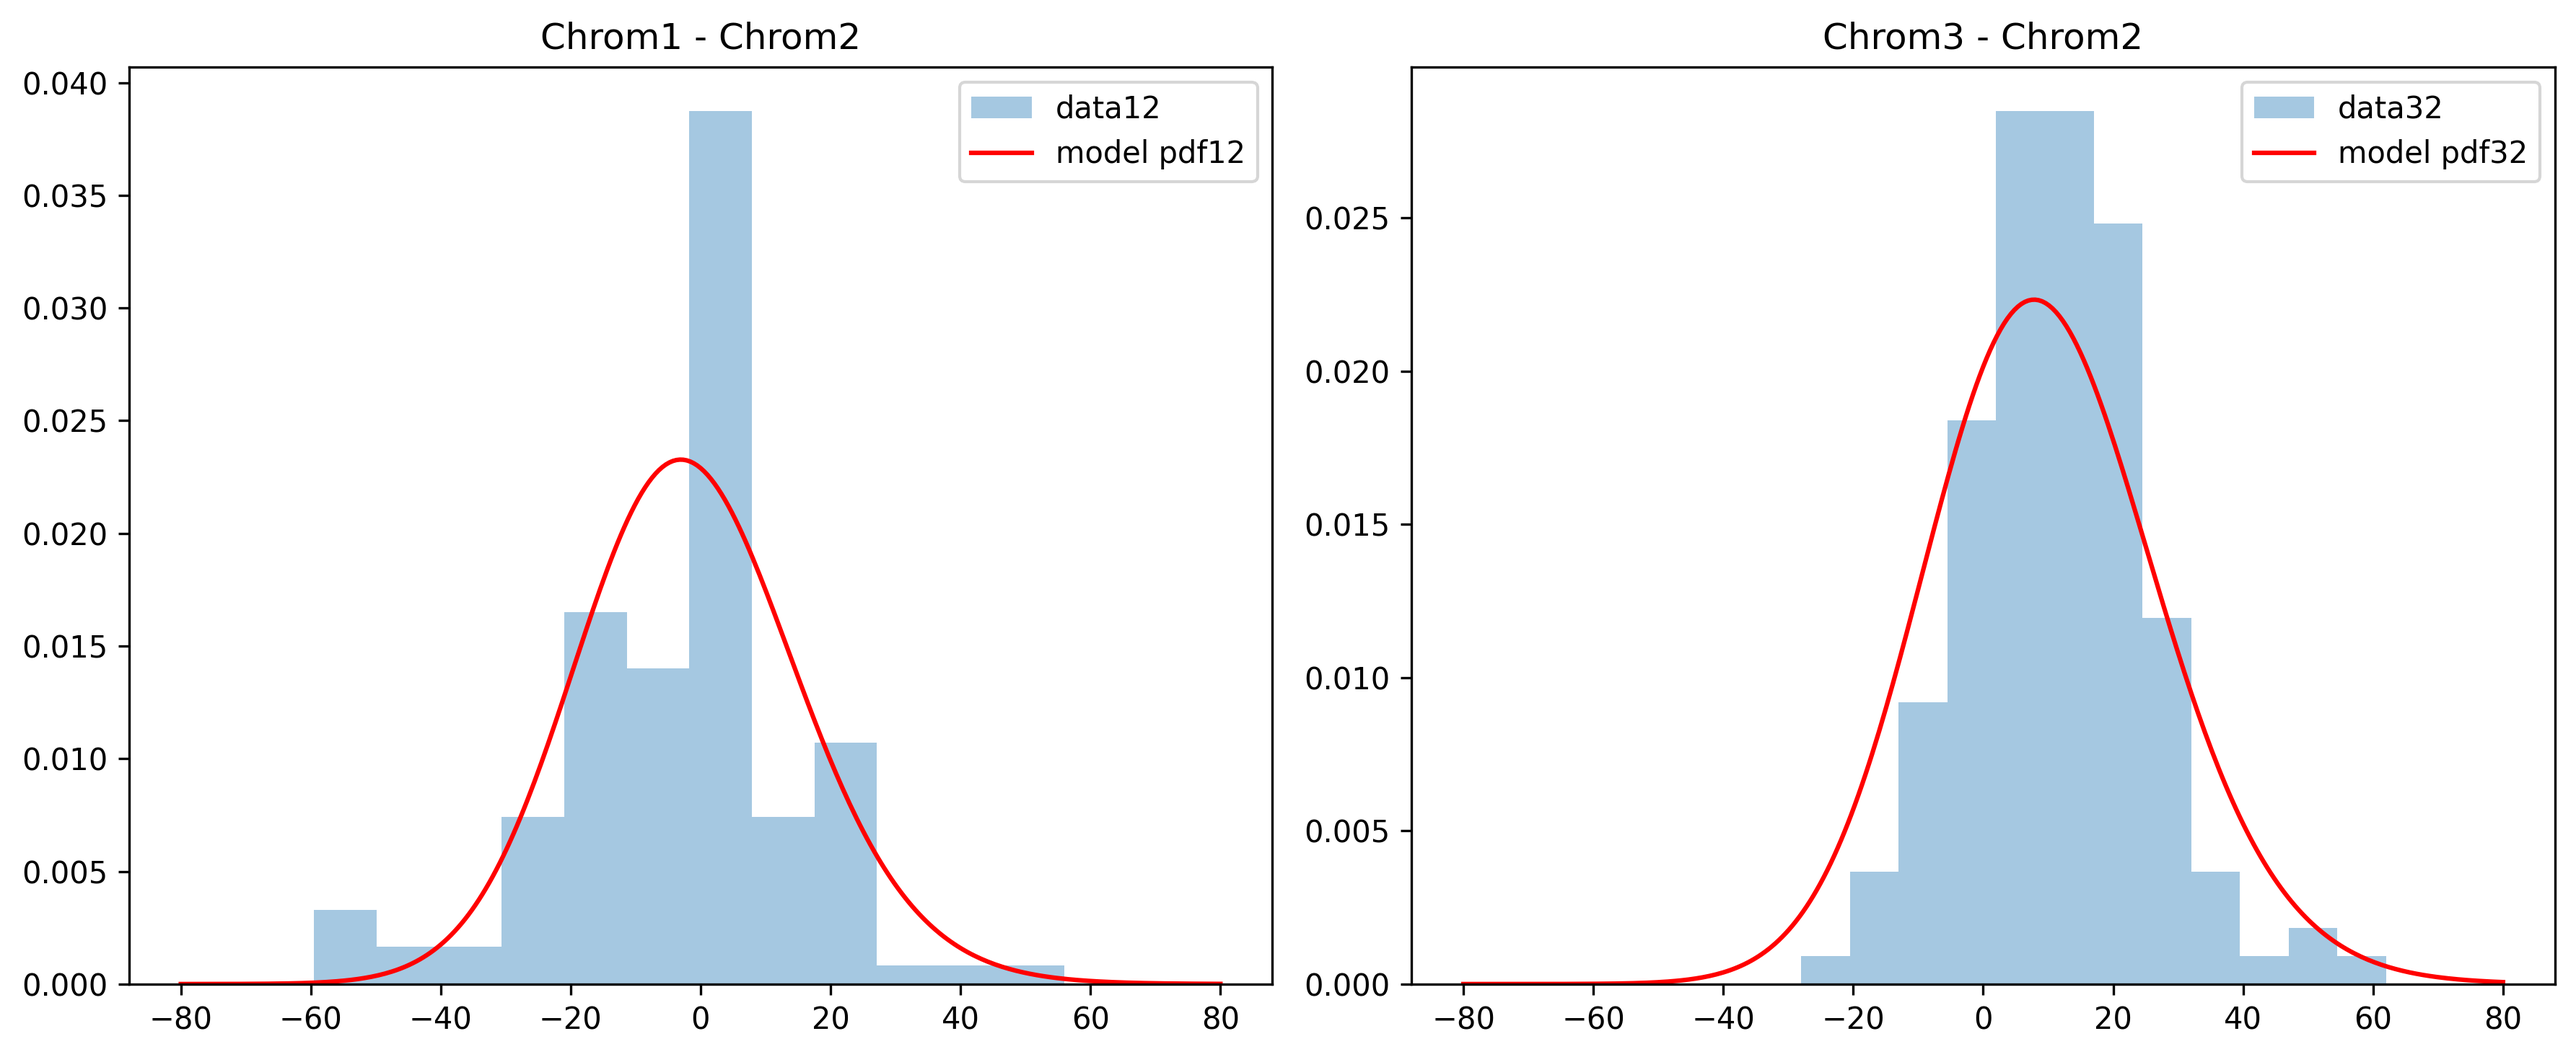
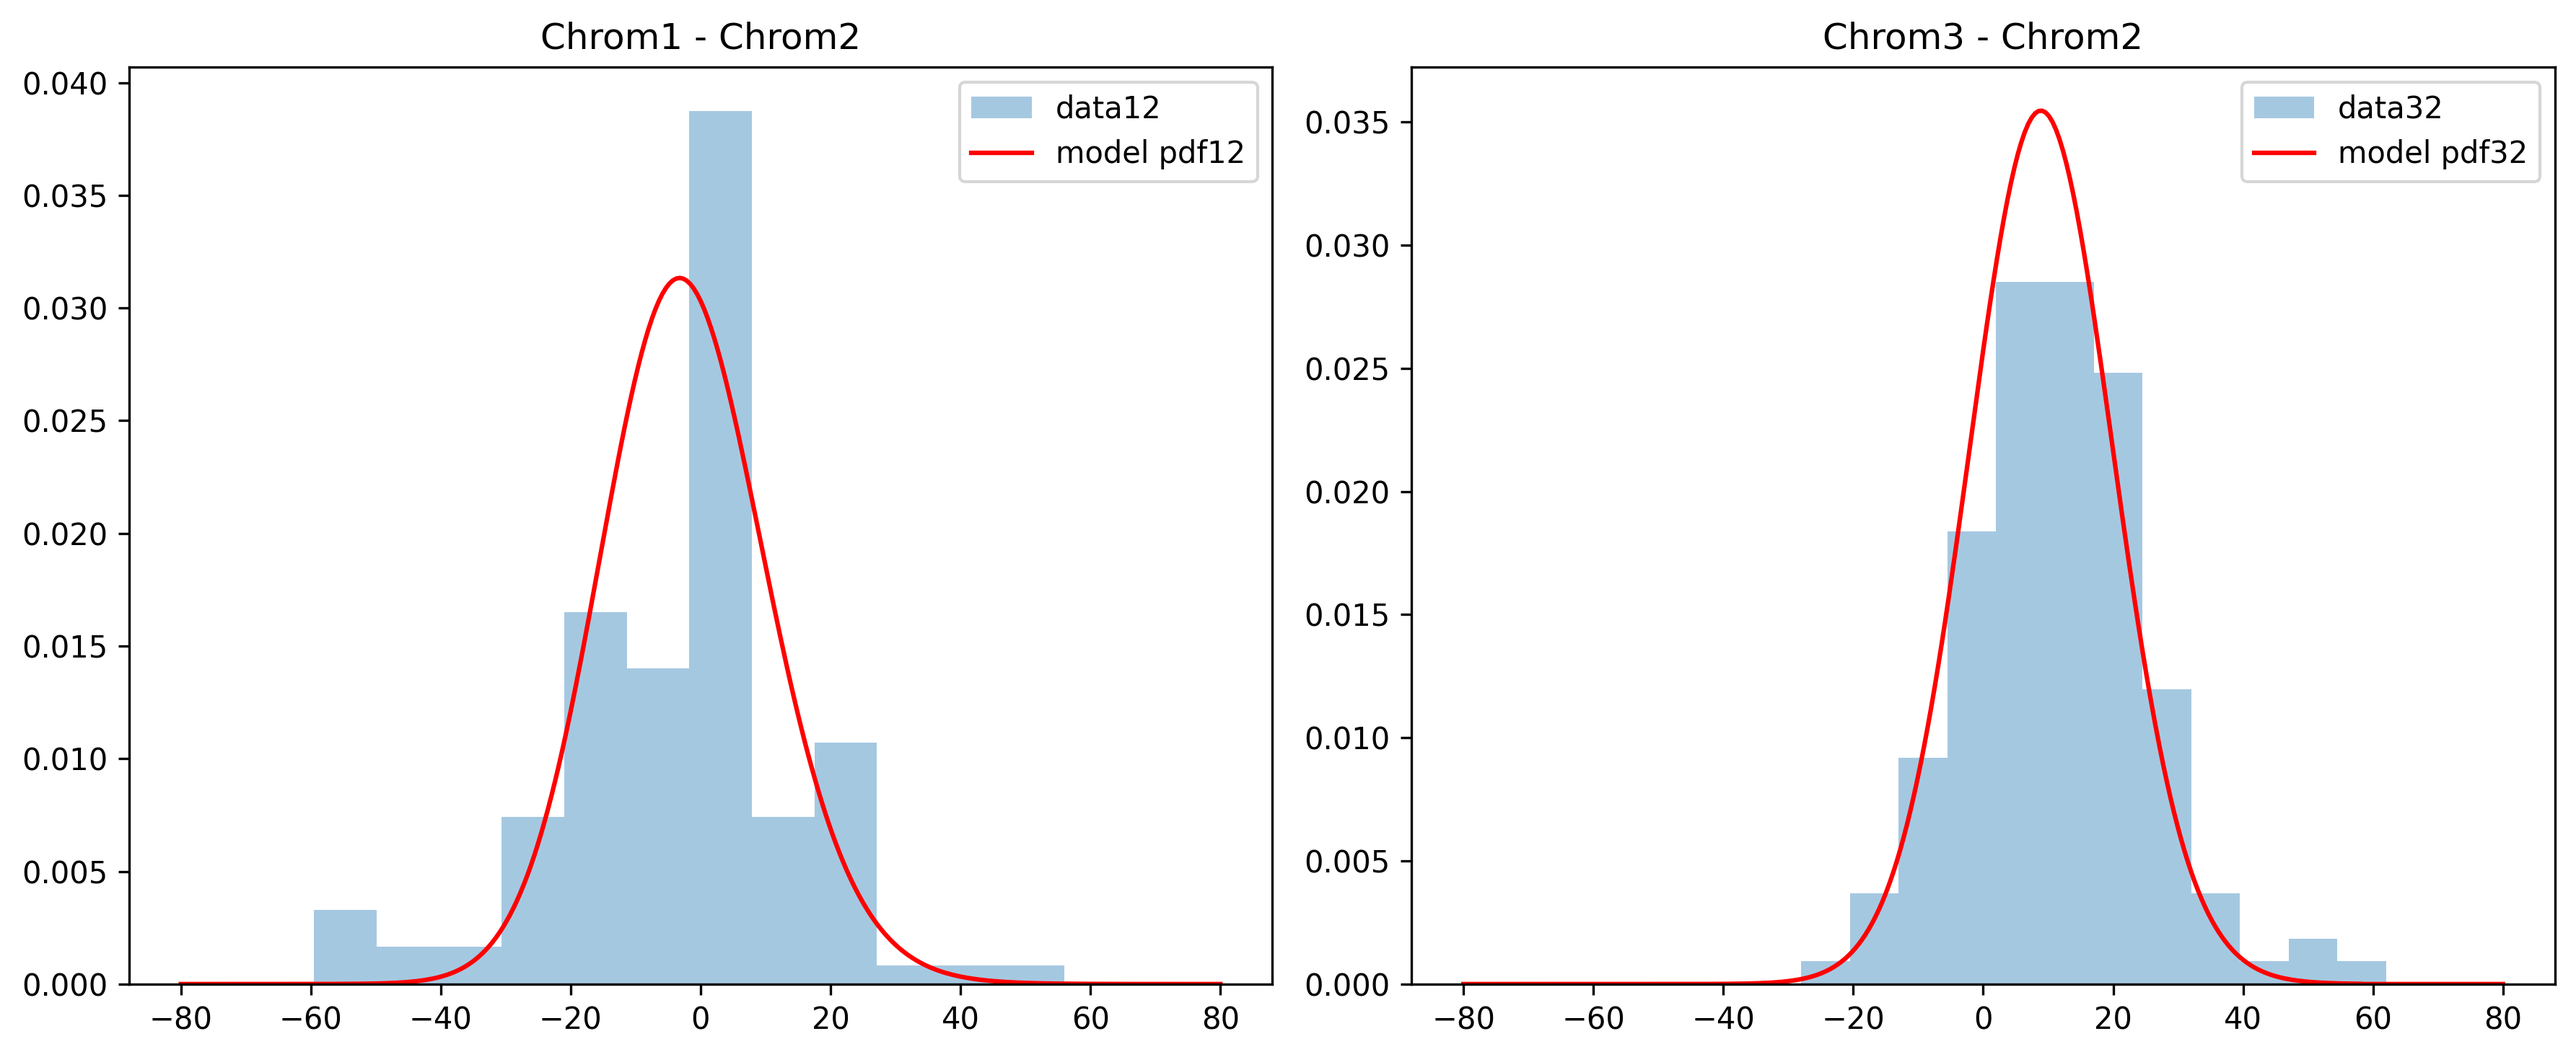
Still optimize

diff --git a/TestDataPlot.py b/TestDataPlot.py
@@ -8,7 +8,7 @@ from Chromosome_Gillespie4 import run_simulations, generate_threshold_values
 def run_stochastic_simulation_and_plot(k_opt, r21_opt, R21_opt, r23_opt, R23_opt,
                                        data12, data32,
                                        n2_opt, N2_opt,
-                                       max_time=150, num_sim=500):
+                                       max_time=150, num_sim=1000):
     """
     Use the best-fit (k_opt, r1_opt, R1_opt, r2_opt, R2_opt) to run a Gillespie-like
     simulation. Then compare sim difference times to the experimental data hist.
@@ -69,13 +69,13 @@ if __name__ == "__main__":
 
     x_grid = np.linspace(-80, 80, 301)
 
-    n2_opt = 10.00
+    n2_opt = 10.0
     N2_opt = 100
-    k_opt = 0.0283
-    r21_opt = 0.5
+    k_opt = 0.0376
+    r21_opt = 0.5217
     R21_opt = 0.50
-    r23_opt = 0.9
-    R23_opt = 1.25
+    r23_opt = 1.6931
+    R23_opt = 2.50
     n1_opt = r21_opt * n2_opt
     N1_opt = R21_opt * N2_opt
     n3_opt = r23_opt * n1_opt
@@ -150,3 +150,15 @@ if __name__ == "__main__":
 #   n2=5.00, N2=100.00
 #   k=0.0365, r1=1.0000, R1=1.00
 #   r2=1.0000, R2=1.50
+
+# Best negative log-likelihood: 1133.3325581290803
+# Best parameters:
+#   n2=5.00, N2=100.11
+#   k=0.0376, r1=0.5217, R1=0.50
+#   r2=1.6931, R2=2.50
+
+# Best negative log-likelihood: 1132.2204025967908
+# Best parameters:
+#   n2=2.00, N2=100.13
+#   k=0.0570, r1=0.5000, R1=0.50
+#   r2=1.5696, R2=2.75

diff --git a/NumericalOptimizationLocal.py b/NumericalOptimizationLocal.py
@@ -85,15 +85,15 @@ def main():
     # e.g. 0.50, 0.75, 1.00, ...
     R21_candidates = np.round(np.arange(0.5, 2.01, 0.25), 2)
     # e.g. 0.50, 1.00, 1.50, ...
-    R23_candidates = np.round(np.arange(0.5, 2.51, 0.5), 2)
+    R23_candidates = np.round(np.arange(0.5, 5.01, 0.25), 2)
 
     # e) We'll do local optimization over [k, r1, r2] for each grid cell (R1,R2)
     param_bounds = [
-        (5, 10),     # n2
-        (80, 200),   # N2
+        (2, 10),     # n2
+        (100, 400),   # N2
         (0.01, 0.3),  # k
-        (0.5,  2.0),  # r1
-        (0.5,  2.0),  # r2
+        (0.5,  4.0),  # r1
+        (0.5,  4.0),  # r2
     ]
 
     best_obj = np.inf

diff --git a/NumericalOptimiration.py b/NumericalOptimiration.py
@@ -77,7 +77,7 @@ def main():
     ]
 
     # e) Initial guess for [n2, N2, k, r1, r2, R21, R23]
-    x0 = [10, 100, 0.0278, 0.5251, 0.50, 1.1022, 1.50]
+    x0 = [10, 100, 0.03, 0.5, 0.50, 1.3, 2.0]
 
     # f) Perform global optimization
     result = differential_evolution(
